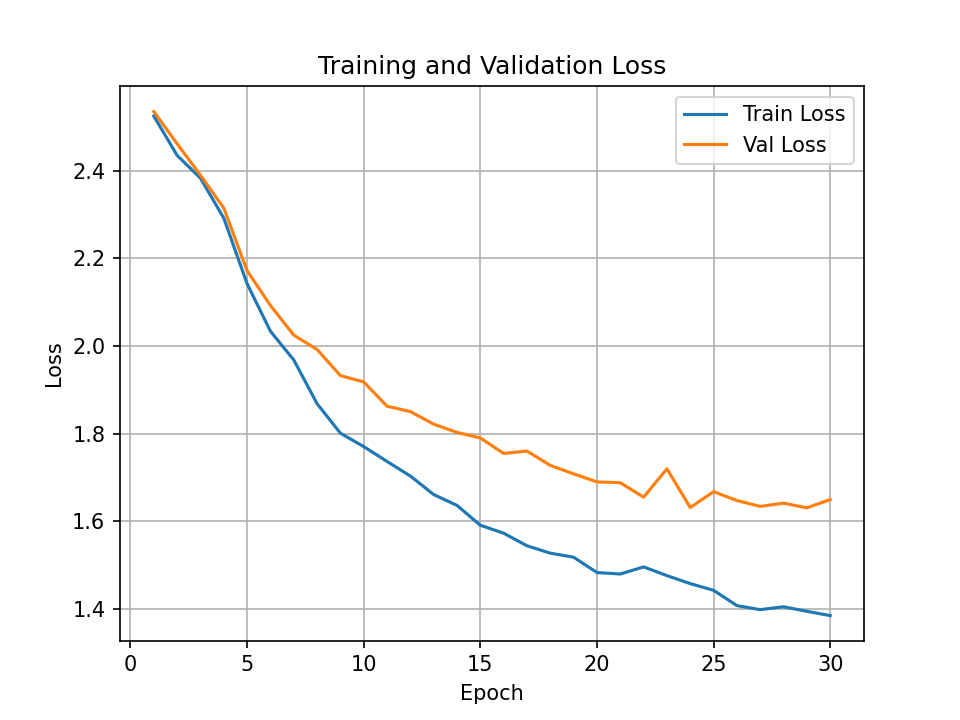
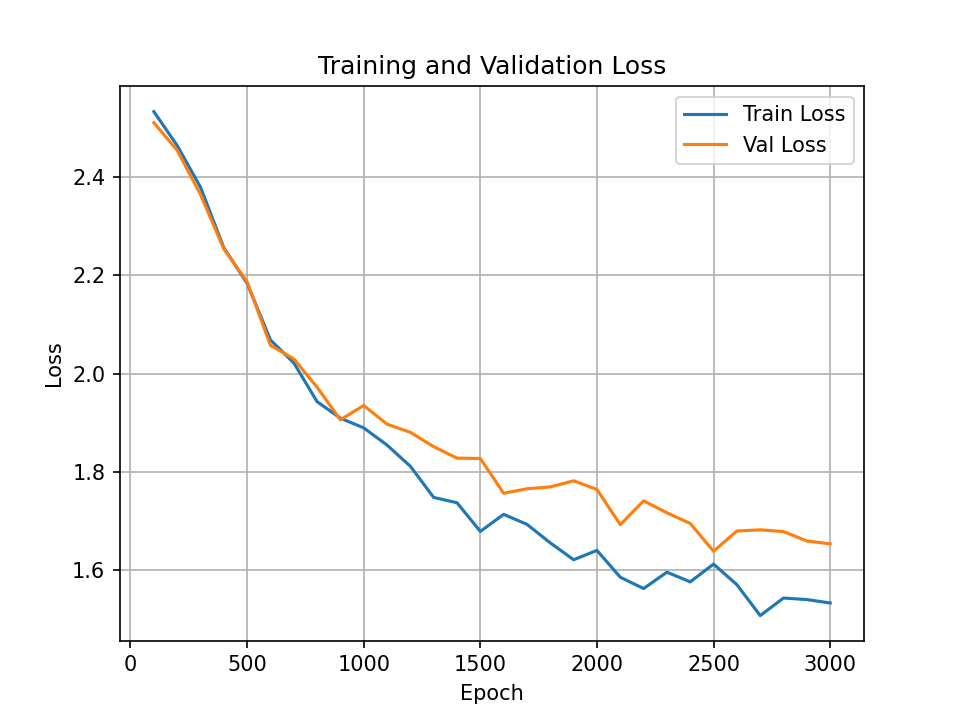
完整

diff --git a/week7_transformer/Tiny_Gpt/evaluate.py b/week7_transformer/Tiny_Gpt/evaluate.py
@@ -1,0 +1,91 @@
+"""
+import os
+import json
+import torch
+import torch.nn as nn
+
+from model import TinyGpt
+
+def evaluate():
+    device = torch.device("cuda" if torch.cuda.is_available() else "cpu")
+
+    vocab_size = 65
+    seq_len = 128
+    batch_size = 64
+
+    d_model = 256
+    num_heads = 8
+    num_layer = 4
+    d_ff = 512
+
+    model = TinyGpt(
+        vocab_size=vocab_size,
+        d_model=d_model,
+        num_heads=num_heads,
+        num_layer=num_layer,
+        d_ff=d_ff
+    )
+
+    model.to(device)
+
+    checkpoint_path = "outputs/best_model.pth"
+    if os.path.exists(checkpoint_path):
+        checkpoint = torch.load(checkpoint_path, map_location=device)
+        model.load_state_dict(checkpoint["model_state_dict"])
+        print("Loaded checkpoint from", checkpoint_path)
+    else:
+        print("No checkpoint found at", checkpoint_path)
+        return
+"""
+
+"""加载 train.py 保存的模型，用两种采样温度续写同一段台词。"""
+from pathlib import Path
+
+import torch
+
+from model import TinyGpt
+
+
+@torch.inference_mode()  #等于没有梯度计算，节省显存和计算资源
+def generate(model, chars, seq_len, prompt, temperature, num_new_chars=300):
+    """返回提示词和续写。chars 的顺序决定字符对应的整数 ID。"""    
+    char_to_id = {char: index for index, char in enumerate(chars)}
+    if not prompt or any(char not in char_to_id for char in prompt):
+        raise ValueError("提示词不能为空，且只能使用训练词表中的字符")
+    if temperature <= 0:
+        raise ValueError("采样温度必须大于 0")
+
+    device = model.token_embedding.weight.device
+    tokens = torch.tensor([[char_to_id[char] for char in prompt]], device=device)
+    model.eval()
+    for _ in range(num_new_chars):
+        # 输入保留最近一个训练窗口，tokens 本身保留完整文本。
+        context = tokens[:, -seq_len:]
+        logits = model(context)                   # [1, T, 词表大小]
+        next_logits = logits[:, -1, :]            # 最后一个位置预测下一个字符
+        probs = torch.softmax(next_logits / temperature, dim=-1)
+        next_token = torch.multinomial(probs, num_samples=1)#按照概率随机抽样
+        tokens = torch.cat([tokens, next_token], dim=1)
+
+    return "".join(chars[index] for index in tokens[0].tolist())
+
+
+def main():
+    path = Path(__file__).resolve().parent / "outputs" / "best_model.pth"
+    if not path.is_file():
+        raise SystemExit("请先在 Tiny_Gpt 目录运行训练脚本，生成 outputs/best.pt")
+
+    device = torch.device("cuda" if torch.cuda.is_available() else "cpu")
+    checkpoint = torch.load(path, map_location="cpu", weights_only=True)
+    model = TinyGpt(**checkpoint["model_config"])
+    model.load_state_dict(checkpoint["model_state"])
+    model.to(device)
+    for temperature in (0.7, 1.0):
+        torch.manual_seed(42)  # 两次采样使用相同的随机种子，方便比较温度。
+        print(f"\n--- temperature = {temperature} ---")
+        print(generate(model, checkpoint["chars"], checkpoint["seq_len"],
+                       prompt="ROMEO:\n", temperature=temperature))
+
+
+if __name__ == "__main__":
+    main()

diff --git a/week7_transformer/Tiny_Gpt/train.py b/week7_transformer/Tiny_Gpt/train.py
@@ -4,12 +4,12 @@ import torch.optim as optim
 import os
 import json
 
-from dataset import get_batch
+from dataset import chars,get_batch
 from model import TinyGpt
 
 device = torch.device("cuda" if torch.cuda.is_available() else "cpu")
 
-vocab_size = 65
+vocab_size = len(chars)
 
 seq_len = 128
 batch_size = 64
@@ -19,13 +19,14 @@ num_heads = 8
 num_layer = 4
 d_ff = 512
 
-model = TinyGpt(
-    vocab_size=vocab_size,
-    d_model=d_model,
-    num_heads=num_heads,
-    num_layer=num_layer,
-    d_ff=d_ff
-)
+model_config = {
+    "vocab_size": vocab_size,
+    "d_model": d_model,
+    "num_heads": num_heads,
+    "num_layer": num_layer,
+    "d_ff": d_ff
+}
+model = TinyGpt(**model_config)
 
 model.to(device)
 
@@ -53,8 +54,8 @@ def TinyGpt_eval():
 
 def TinyGpt_train():
     model.train()
-
-    for epoch in range(epochs):
+    best_eval_loss = float('inf')
+    for epoch in range(epochs): #epoch不准确，应该理解成是step，与之前的epoch概念不一样
         x, y = get_batch('train', batch_size, seq_len, device)
         x = x.to(device)
         y = y.to(device)
@@ -67,6 +68,7 @@ def TinyGpt_train():
         optimizer.step()
         if (epoch + 1) % 100 == 0:
             eval_loss = TinyGpt_eval()
+            model.train()
             history["train_loss"].append(loss.item())
             history["val_loss"].append(eval_loss)
             print(
@@ -74,6 +76,19 @@ def TinyGpt_train():
                 f"Loss: {loss.item():.4f}, "
                 f"Eval Loss: {eval_loss:.4f}"
             )
+            if eval_loss < best_eval_loss:
+                best_eval_loss = eval_loss
+                ckpt_path = os.path.join("outputs", "best_model.pth")
+                torch.save({
+                    "model_state": model.state_dict(),
+                    "model_config": model_config,
+                    "chars": chars,
+                    "seq_len": seq_len,
+                    "step": epoch + 1,
+                    "val_loss": eval_loss
+                }, ckpt_path)
+                print(f"  ↳ Saved best model (eval_loss={best_eval_loss:.4f}) to {ckpt_path}")
+
     history_path = os.path.join("outputs", "history.json")
     with open(history_path, "w", encoding="utf-8") as f:
         json.dump(history, f, ensure_ascii=False, indent=2)

diff --git a/week7_transformer/Tiny_Gpt/plot_curves.py b/week7_transformer/Tiny_Gpt/plot_curves.py
@@ -4,7 +4,7 @@ import matplotlib.pyplot as plt
 with open("outputs/history.json", "r", encoding="utf-8") as f:
     history = json.load(f)
 
-epochs = range(1, len(history["train_loss"]) + 1)
+epochs = range(1*100, (len(history["train_loss"]) + 1)*100, 100) #步长100
 
 plt.figure()
 plt.plot(epochs, history["train_loss"], label="Train Loss")
